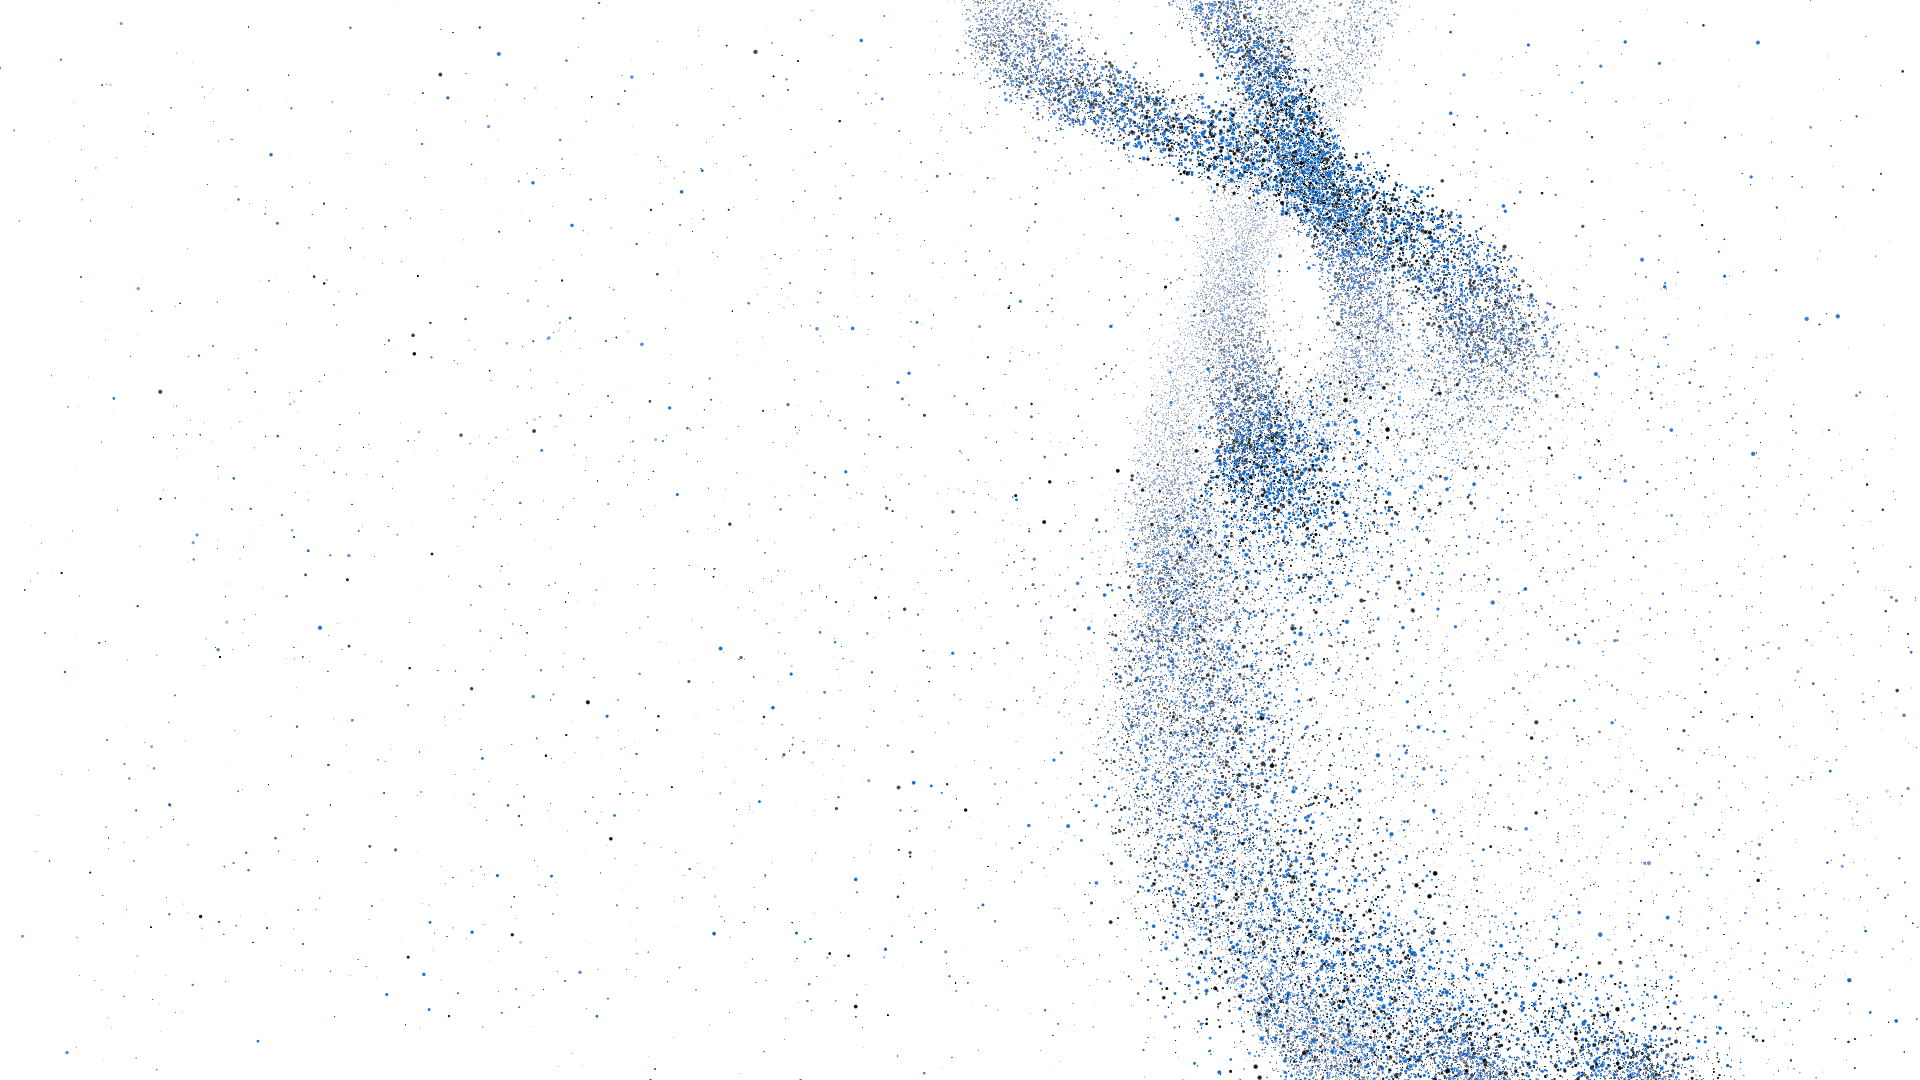
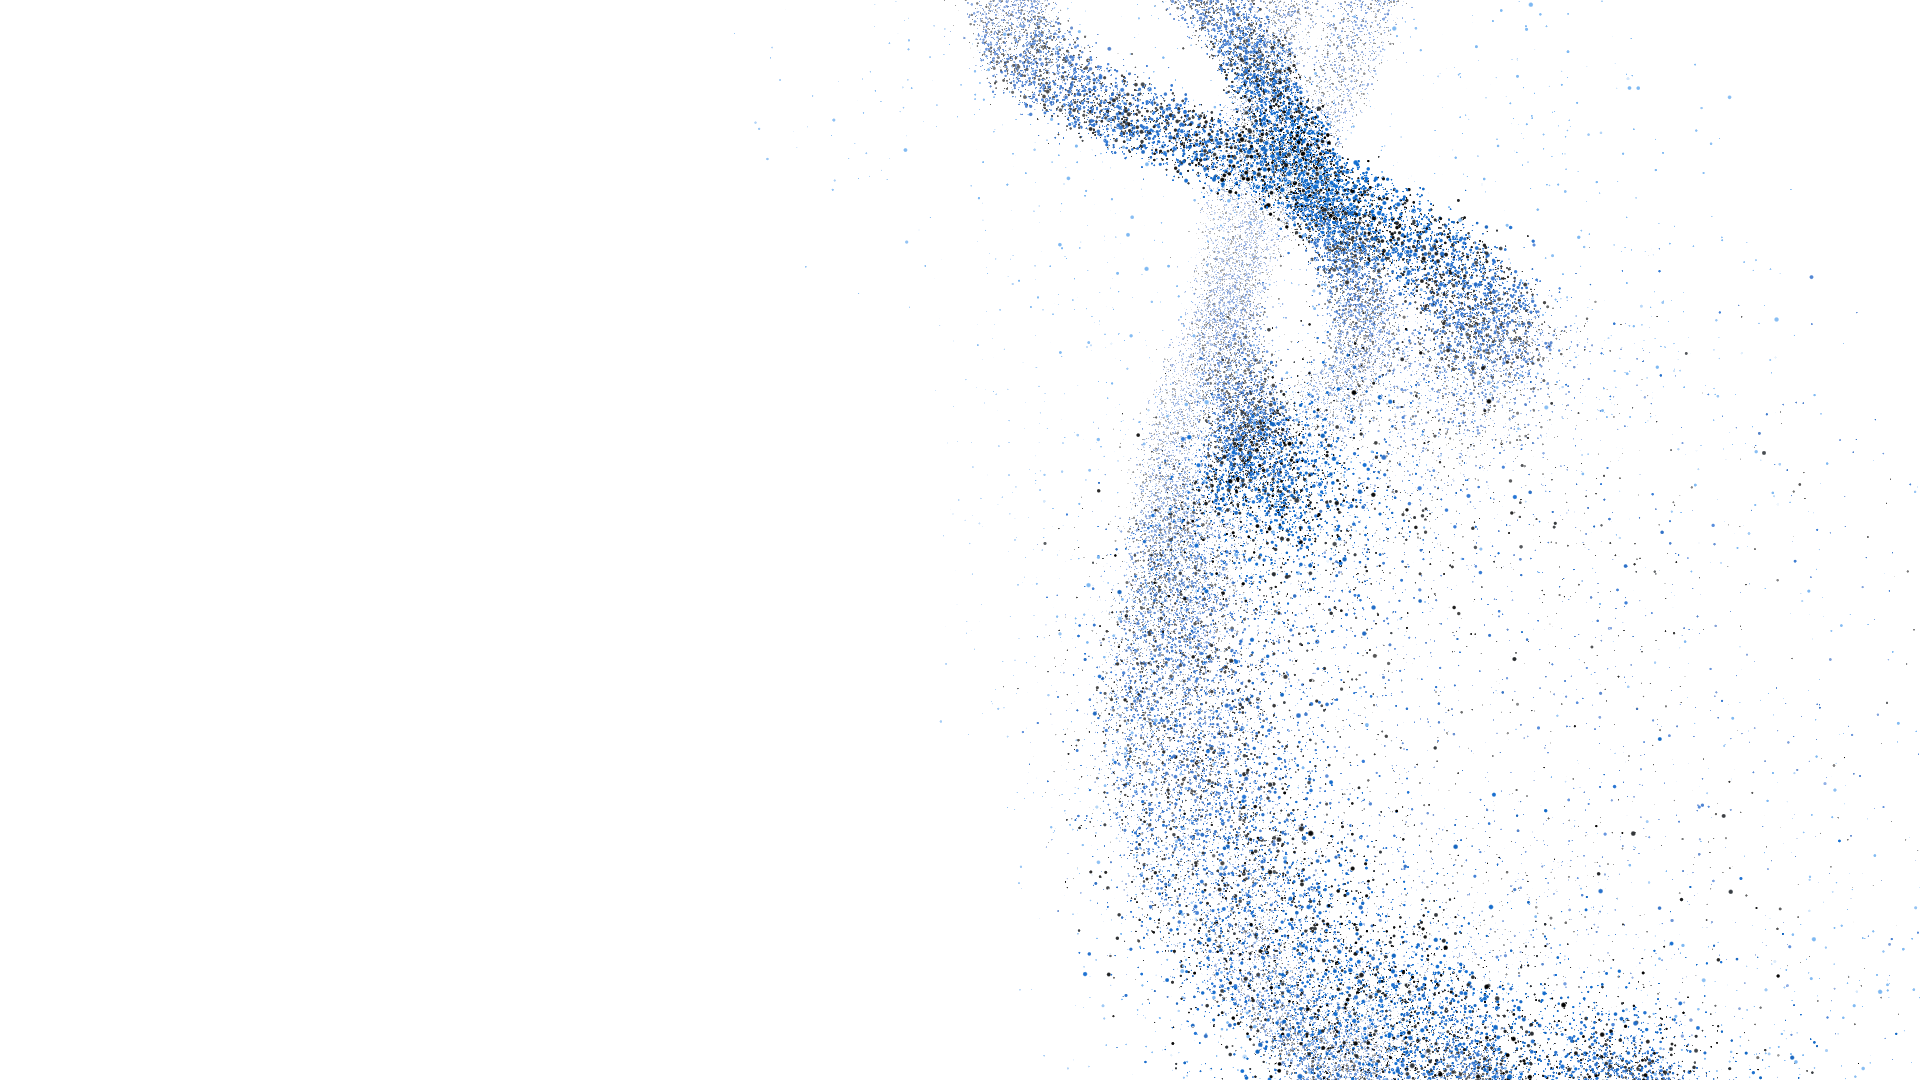
Keep stray particles 200-300px from the strands, colour them light blue
Claude-Session: https://claude.ai/code/session_01LC9PoW5GSUPN2TTK73ZPiw

Changed region(s): [[0.5, 0.0, 0.9062, 1.0]]

diff --git a/index.html b/index.html
@@ -25,10 +25,13 @@ const CONFIG = {
   orbitSpeed: 1.6,        // koliko brzo cestice kruze unutar linije
   wander: 0.07,           // slobodno lutanje svake cestice
   pathDrift: 0.35,        // koliko se putanja linija polako menja u vremenu
-  // Zalutale cestice: pojave se bilo gde na strani i odlete nazad u tok
+  // Zalutale cestice: pojave se 200-300px od linija i vrate se nazad u tok
   strayPerStrand: 1500,   // broj takvih cestica po liniji
   strayLifeMin: 5,        // najkraci ciklus (sekunde): pojava -> povratak u tok
   strayLifeMax: 10,       // najduzi ciklus
+  strayDistMin: 200,      // najmanja udaljenost od linija (px)
+  strayDistMax: 300,      // najveca udaljenost od linija (px)
+  strayColor: '#7DB8F2',  // svetlo plava za sve zalutale cestice
   blueShare: 0.62,        // udeo plavih cestica (ostalo tamne) - boje su izmesane
   particlesPerStrand: 24000,
   thickness: 0.2,         // debljina linije
@@ -122,6 +125,8 @@ STRANDS.forEach((st) => {
       .offsetHSL(0, 0, (rand() - 0.5) * 0.08);
     aColor.set([c.r, c.g, c.b], i * 3);
     if (k >= CONFIG.particlesPerStrand) {
+      const sc = new THREE.Color(CONFIG.strayColor);
+      aColor.set([sc.r, sc.g, sc.b], i * 3);
       const life = CONFIG.strayLifeMin + rand() * (CONFIG.strayLifeMax - CONFIG.strayLifeMin);
       aStray.set([1, life, rand(), rand() * 1000], i * 4);
     }
@@ -157,6 +162,8 @@ const mat = new THREE.ShaderMaterial({
     uPx: { value: 1 },
     uMouse: { value: new THREE.Vector3(999, 999, 0) },
     uHalf: { value: new THREE.Vector2(5, 3) },
+    uPxWorld: { value: 0.01 },
+    uStrayDist: { value: new THREE.Vector2(CONFIG.strayDistMin, CONFIG.strayDistMax) },
     uForce: { value: 0 },
     uMouseR: { value: CONFIG.mouseRadius },
     uMouseS: { value: CONFIG.mouseStrength },
@@ -164,7 +171,7 @@ const mat = new THREE.ShaderMaterial({
   vertexShader: /* glsl */`
     attribute float aS; attribute vec4 aStA; attribute vec4 aStB; attribute vec4 aOrb; attribute vec4 aRand;
     attribute float aSize; attribute float aSpeed; attribute vec3 aColor; attribute vec4 aStray;
-    uniform vec2 uHalf;
+    uniform vec2 uHalf, uStrayDist; uniform float uPxWorld;
     vec3 hash3(vec2 q) {
       return fract(sin(vec3(dot(q, vec2(127.1, 311.7)), dot(q, vec2(269.5, 183.3)), dot(q, vec2(419.2, 371.9)))) * 43758.5453);
     }
@@ -198,14 +205,16 @@ const mat = new THREE.ShaderMaterial({
         float c = uTime / aStray.y + aStray.z;
         float u = fract(c);
         vec3 h = hash3(vec2(aStray.w, floor(c)));
-        vec3 start = vec3((h.x * 2.0 - 1.0) * uHalf.x, (h.y * 2.0 - 1.0) * uHalf.y, (h.z * 2.0 - 1.0) * 1.5);
-        start += 0.08 * vec3(sin(uTime * 0.8 + aStray.w), cos(uTime * 0.7 + aStray.w * 1.3), 0.0);
+        // pojavi se 200-300px levo ili desno od svoje linije
+        float dist = mix(uStrayDist.x, uStrayDist.y, h.x) * uPxWorld;
+        float side = h.y < 0.5 ? -1.0 : 1.0;
+        float ang = (h.z - 0.5) * 1.1;                          // malo gore/dole od bocnog pravca
+        vec3 off = dist * (side * cos(ang) * uU + sin(ang) * uDir);
+        off += 0.05 * vec3(sin(uTime * 0.8 + aStray.w), cos(uTime * 0.7 + aStray.w * 1.3), 0.0);
         float g = smoothstep(0.12, 0.9, u);
         merge = g * g;                                        // polako krene, pa ubrza u tok
-        vec3 toward = p - start;
-        vec3 side = normalize(vec3(-toward.y, toward.x, 0.0) + 1e-4);
-        vec3 arc = side * sin(merge * 3.14159) * (h.z - 0.5) * 1.6;   // zakrivljen let
-        p = mix(start, p, merge) + arc;
+        vec3 arc = uDir * sin(merge * 3.14159) * (h.z - 0.5) * dist * 0.6;  // blago zakrivljen let
+        p = p + off * (1.0 - merge) + arc;
         strayAlpha = smoothstep(0.0, 0.1, u) * smoothstep(1.0, 0.93, u);
       }
 
@@ -249,6 +258,7 @@ function resize() {
   const visW = visH * camera.aspect;
   mat.uniforms.uCenter.value.set(camera.aspect > 1.2 ? visW * 0.2 : 0, 0, 0);
   mat.uniforms.uHalf.value.set(visW / 2, visH / 2);
+  mat.uniforms.uPxWorld.value = visH / h;
   mat.uniforms.uPx.value = renderer.getPixelRatio() * Math.max(1.4, h / 540);
 }
 addEventListener('resize', resize);

diff --git a/README.md b/README.md
@@ -1,6 +1,6 @@
 # Particle Strands (three.js)
 
-4 asimetrične linije od izmešanih čestica (#106ACA i #14171A) koje se uvijaju jedna oko druge i teku nagore pod uglom, na beloj pozadini. Pojedine čestice se pojavljuju nasumično po celoj strani i odlete nazad u tok. Kada pređeš mišem (ili prstom), čestice se razlete na sve strane i zatim vrate u linije.
+4 asimetrične linije od izmešanih čestica (#106ACA i #14171A) koje se uvijaju jedna oko druge i teku nagore pod uglom, na beloj pozadini. Pojedine svetloplave čestice se pojavljuju 200–300px od linija i vrate nazad u tok. Kada pređeš mišem (ili prstom), čestice se razlete na sve strane i zatim vrate u linije.
 
 ## Pokretanje
 Otvori `index.html` u browseru (three.js se učitava sa CDN-a), ili lokalno:
@@ -26,7 +26,9 @@ npx serve .
 | `coreHollow` | koliko je centar linije ređi |
 | `blue`, `dark`, `blueShare` | dve boje, izmešane; udeo plave |
 | `STRANDS[]` | oblik svake linije posebno (poluprečnik, gustina uvijanja, brzina, vijuganje, debljina) |
-| `strayPerStrand` | broj čestica koje se pojave bilo gde na strani i vrate u tok |
+| `strayPerStrand` | broj čestica koje se pojave pored linija i vrate u tok |
+| `strayDistMin` / `strayDistMax` | udaljenost od linija gde se pojavljuju (px) |
+| `strayColor` | boja tih čestica |
 | `strayLifeMin` / `strayLifeMax` | trajanje jednog takvog ciklusa (s) |
 | `mouseRadius` | koliko daleko od kursora čestice beže |
 | `mouseStrength` | koliko daleko odleću |
